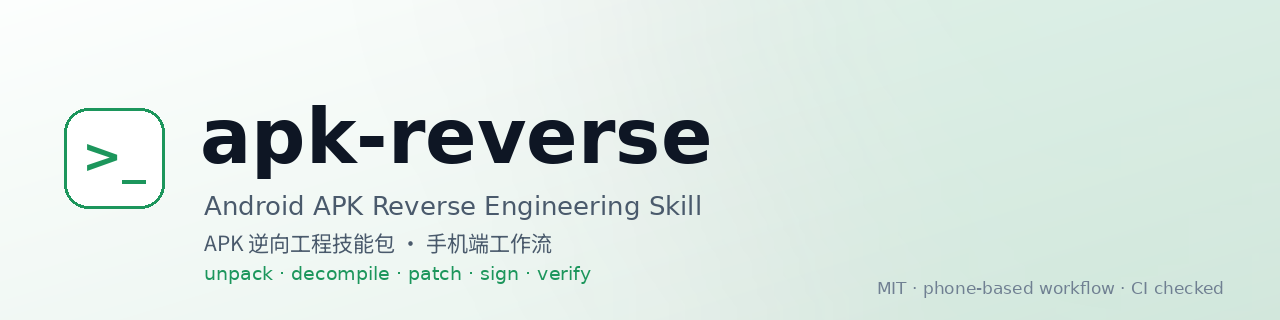
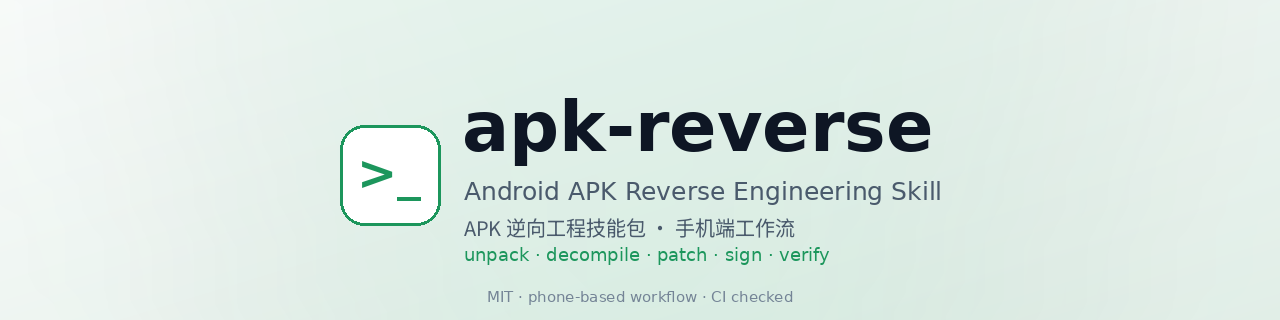
docs: 横幅整体居中排版，修复右侧空白（v0.0.10）

diff --git a/CHANGELOG.md b/CHANGELOG.md
@@ -6,6 +6,13 @@ versioning follows [Semantic Versioning](https://semver.org/).
 
 ## [Unreleased]
 
+## [0.0.10] - 2026-11-15
+
+### Changed
+
+- 横幅改为**整体居中排版**：方标 + 标题 / 中英副标题 / 关键词作为一组居中，底部小注也居中，解决右侧大片空白
+- 深色 / 浅色两版同步
+
 ## [0.0.9] - 2026-11-15
 
 ### Changed

diff --git a/README.md b/README.md
@@ -74,7 +74,7 @@ APK
 
 | Version | Scripts | Reference docs | CI | License |
 |---:|---:|---:|---|---|
-| v0.0.9 | 28 | 18 | GitHub Actions | MIT |
+| v0.0.10 | 28 | 18 | GitHub Actions | MIT |
 
 <p align="center">
   <a href="https://star-history.com/#xiaotianya14/apk-reverse-skill&Date">

diff --git a/README_zh.md b/README_zh.md
@@ -72,7 +72,7 @@ APK
 
 | 版本 | 脚本 | 专题文档 | CI | 许可 |
 |---:|---:|---:|---|---|
-| v0.0.9 | 28 | 18 | GitHub Actions | MIT |
+| v0.0.10 | 28 | 18 | GitHub Actions | MIT |
 
 <p align="center">
   <a href="https://star-history.com/#xiaotianya14/apk-reverse-skill&Date">
